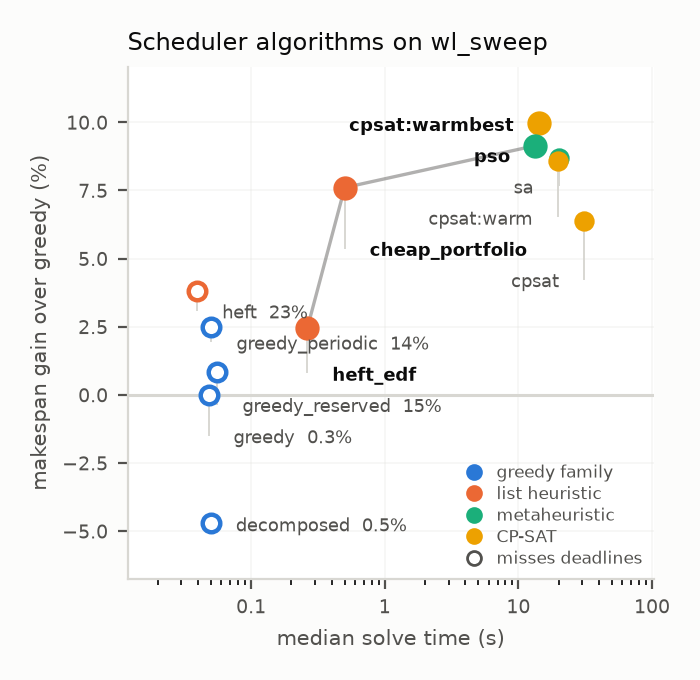
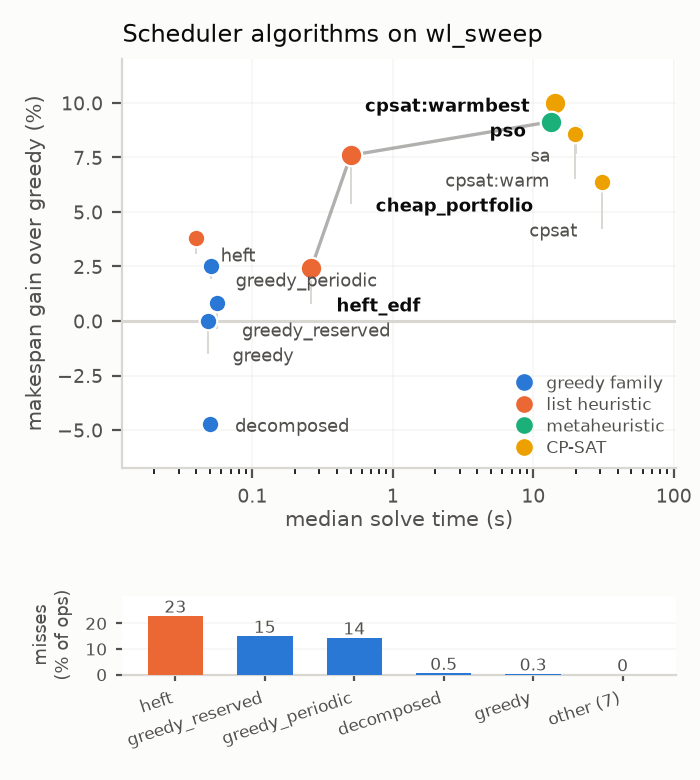
sched_algo_sweep10: split feasibility into its own strip, and compare machine configs
Two figures, each answering one question instead of one figure answering two.

plot_pareto_compact keeps the scatter as pure quality-vs-cost -- no feasibility
folded into the marks -- and puts misses in a short strip beneath: one bar per
solver that misses anything, plus a single 'other (7)' bar at zero for every
solver that misses nothing. Seven of twelve are in that bar, which is the point.
The frontier is still computed over the deadline-clean solvers only, and the
strip is what explains why heft is absent from it despite third-best makespan.

plot_pareto_configs splits the sweep into homogeneous (rvvpair, gempair) and
heterogeneous (hetero, quad) and re-derives everything within each half, each
against its OWN greedy baseline -- comparing a hetero solver against a
homogeneous greedy would fold the machine's advantage into the solver's score.

That split finds something the pooled figure hid: plain cpsat collapses from
9.2% on homogeneous machines to 3.5% on heterogeneous, a 5.7 point drop and by
far the largest movement of any solver. Every other solver moves less than 2.1
points. The metaheuristics go the other way, pso +1.3 and sa +1.2, and
cheap_portfolio is stable at 7.5 -> 7.7 and on the frontier in both halves.

diff --git a/experiments/sched_algo_sweep10/scripts/plot_pareto_compact.py b/experiments/sched_algo_sweep10/scripts/plot_pareto_compact.py
@@ -1,21 +1,21 @@
 #!/usr/bin/env python3
-"""One-panel Pareto, dense enough for a single paper column.
+"""Quality-vs-cost Pareto, with deadline misses as a short strip beneath.
 
-WHY ONE PANEL. The two-panel version spends a whole axis on feasibility, but
-that dimension is nearly binary: seven of twelve solvers miss EXACTLY zero
-deadlines and the other five miss 0.3-22.9%. An axis is the wrong encoding for
-a variable with two clusters -- a mark is right. So a filled marker means
-deadline-clean and a hollow one means it misses windows, with the percentage
-printed beside it. That frees the second panel entirely and the figure drops
-into one column, or two side by side.
+The scatter answers ONE question -- how much makespan does a solver buy, and
+what does it cost in solve time. Folding feasibility into the marks made a
+single frame carry two arguments and read as clutter, so misses now live in
+their own strip: one bar per solver that misses anything, and a single "other"
+bar at zero standing for every solver that misses nothing at all. Seven of
+twelve are in that bar, which is the point -- most solvers here are deadline
+clean and only a handful are not.
 
-Reading it: up is better quality, left is cheaper, and hollow is disqualified
-however good its position looks. heft is the case in point -- third-best
-makespan, and it misses 22.9% of periodic operations.
+The frontier is still computed over the deadline-clean solvers only. heft has
+the third-best makespan and misses 23% of periodic operations; a frontier that
+admits it is recommending it, and the strip below is what explains its absence.
 
   plot_pareto_compact.py [--wide]
 """
-import csv, os, statistics, collections, sys
+import csv, math, os, statistics, collections, sys
 import matplotlib
 matplotlib.use("Agg")
 import matplotlib.pyplot as plt
@@ -26,49 +26,49 @@ HERE = os.path.dirname(os.path.abspath(__file__))
 R = os.path.join(os.path.dirname(HERE), "results")
 WIDE = "--wide" in sys.argv
 
-FAMILY = {
-    "greedy": "#2a78d6", "greedy_periodic": "#2a78d6",
-    "greedy_reserved": "#2a78d6", "decomposed": "#2a78d6",
-    "heft": "#eb6834", "heft_edf": "#eb6834", "cheap_portfolio": "#eb6834",
-    "pso": "#1baf7a", "sa": "#1baf7a",
-    "cpsat": "#eda100", "cpsat:warm": "#eda100", "cpsat:warmbest": "#eda100",
-}
+FAMILY = {"greedy": "#2a78d6", "greedy_periodic": "#2a78d6",
+          "greedy_reserved": "#2a78d6", "decomposed": "#2a78d6",
+          "heft": "#eb6834", "heft_edf": "#eb6834", "cheap_portfolio": "#eb6834",
+          "pso": "#1baf7a", "sa": "#1baf7a",
+          "cpsat": "#eda100", "cpsat:warm": "#eda100", "cpsat:warmbest": "#eda100"}
 FAMNAME = {"#2a78d6": "greedy family", "#eb6834": "list heuristic",
            "#1baf7a": "metaheuristic", "#eda100": "CP-SAT"}
-INK, INK2, GRID = "#0b0b0b", "#52514e", "#d8d7d2"
-FIG = (7.1, 3.4) if WIDE else (3.5, 3.4)
+INK, INK2, GRID, MUTE = "#0b0b0b", "#52514e", "#d8d7d2", "#9a9992"
+FIG = (7.1, 3.9) if WIDE else (3.5, 3.9)
 FT, FA, FK, FL, FG = (13, 11, 10, 10, 9.5) if WIDE else (8.5, 7.5, 7, 6.6, 6.2)
 
-rows = [r for r in csv.DictReader(open(f"{R}/results.csv")) if r["family"] != "tight_loop"]
-base = {}
-for r in rows:
-    if r["solver"] == "greedy":
-        try: base[(r["arm"], r["workload"])] = float(r["objective"])
+
+def series(rows):
+    base = {}
+    for r in rows:
+        if r["solver"] == "greedy":
+            try: base[(r["arm"], r["workload"])] = float(r["objective"])
+            except (TypeError, ValueError): pass
+    imp, wall, mp = (collections.defaultdict(list) for _ in range(3))
+    for r in rows:
+        k, s = (r["arm"], r["workload"]), r["solver"]
+        b = base.get(k)
+        try: obj = float(r["objective"])
+        except (TypeError, ValueError): continue
+        if not b or obj <= 0: continue
+        imp[s].append((b - obj) / b * 100.0)
+        try: wall[s].append(float(r["wall_s"]))
         except (TypeError, ValueError): pass
+        po = int(float(r["periodic_ops"] or 0))
+        if po: mp[s].append(int(float(r["misses"] or 0)) / po * 100.0)
+    return imp, wall, mp
 
-imp, wall, mpct = (collections.defaultdict(list) for _ in range(3))
-for r in rows:
-    k, s = (r["arm"], r["workload"]), r["solver"]
-    b = base.get(k)
-    try: obj = float(r["objective"])
-    except (TypeError, ValueError): continue
-    if not b or obj <= 0: continue
-    imp[s].append((b - obj) / b * 100.0)
-    try: wall[s].append(float(r["wall_s"]))
-    except (TypeError, ValueError): pass
-    po = int(float(r["periodic_ops"] or 0))
-    if po: mpct[s].append(int(float(r["misses"] or 0)) / po * 100.0)
 
+rows = [r for r in csv.DictReader(open(f"{R}/results.csv")) if r["family"] != "tight_loop"]
+imp, wall, mpct = series(rows)
 S = sorted(imp, key=lambda s: -statistics.mean(imp[s]))
 X = {s: statistics.median(wall[s]) for s in S}
 Y = {s: statistics.mean(imp[s]) for s in S}
 M = {s: statistics.mean(mpct[s]) for s in S}
 
-fig, ax = plt.subplots(figsize=FIG)
+fig, (ax, bx) = plt.subplots(2, 1, figsize=FIG, sharex=False,
+                             gridspec_kw=dict(height_ratios=[4.4, 0.85], hspace=0.52))
 
-# Pareto frontier over the DEADLINE-CLEAN solvers only. A frontier that admits
-# infeasible points recommends them, which is exactly the error the two-panel
-# version existed to prevent.
 clean = [s for s in S if M[s] < 0.05]
 pts = sorted(((X[s], Y[s], s) for s in clean), key=lambda p: (p[0], -p[1]))
 best, front = -1e9, []
@@ -84,19 +84,17 @@ label_y, floor = {}, None
 for s in sorted(S, key=lambda s: -Y[s]):
     y = Y[s] if floor is None else min(Y[s], floor)
     label_y[s] = y; floor = y - gap
+mid = 10 ** (sum(math.log10(v) for v in X.values()) / len(X))
 
 for s in S:
-    x, y, col, ok = X[s], Y[s], FAMILY[s], M[s] < 0.05
-    on = s in FRONT
+    x, y, col, on = X[s], Y[s], FAMILY[s], s in FRONT
     ax.scatter([x], [y], s=(60 if WIDE else 40) * (1.5 if on else 1.0),
-               facecolor=col if ok else "white", edgecolor=col,
-               linewidth=1.0 if ok else 1.6, zorder=3)
+               color=col, edgecolor="white", linewidth=0.8, zorder=3)
     ly = label_y[s]
     if abs(ly - y) > gap * 0.35:
         ax.plot([x, x], [y, ly], color=GRID, lw=0.7, zorder=2)
-    txt = s if ok else f"{s}  {M[s]:.1f}%" if M[s] < 1 else f"{s}  {M[s]:.0f}%"
-    right = x > 10 ** ((sum(map(lambda v: __import__('math').log10(v), X.values())) / len(X)))
-    ax.annotate(txt, (x, ly), textcoords="offset points",
+    right = x > mid
+    ax.annotate(s, (x, ly), textcoords="offset points",
                 xytext=(-9 if right else 9, -3), ha="right" if right else "left",
                 fontsize=FL, color=INK if on else INK2,
                 fontweight="bold" if on else "normal", zorder=4)
@@ -110,19 +108,41 @@ ax.grid(alpha=0.22, lw=0.6, color=GRID); ax.set_axisbelow(True)
 for sp in ("top", "right"): ax.spines[sp].set_visible(False)
 for sp in ("left", "bottom"): ax.spines[sp].set_color(GRID)
 ax.tick_params(colors=INK2, labelsize=FK)
-ax.set_xlabel("median solve time (s)", fontsize=FA, color=INK2)
+ax.set_xlabel("median solve time (s)", fontsize=FA, color=INK2, labelpad=1)
 ax.set_ylabel("makespan gain over greedy (%)", fontsize=FA, color=INK2)
 ax.set_title("Scheduler algorithms on wl_sweep", fontsize=FT, color=INK, loc="left")
-
-h = [Line2D([], [], marker="o", ls="", markerfacecolor=c, markeredgecolor=c,
-            markersize=5, label=n) for c, n in FAMNAME.items()]
-h.append(Line2D([], [], marker="o", ls="", markerfacecolor="white",
-                markeredgecolor=INK2, markersize=5, label="misses deadlines"))
+h = [Line2D([], [], marker="o", ls="", color=c, markersize=5, label=n)
+     for c, n in FAMNAME.items()]
 ax.legend(handles=h, loc="lower right", frameon=False, fontsize=FG,
           labelcolor=INK2, handletextpad=0.3, borderpad=0.15, labelspacing=0.25)
-fig.tight_layout()
+
+# ---- the strip: only solvers that miss anything, plus one bar for the rest ----
+bad = sorted((s for s in S if M[s] >= 0.05), key=lambda s: -M[s])
+names = bad + [f"other ({len(S) - len(bad)})"]
+vals = [M[s] for s in bad] + [0.0]
+cols = [FAMILY[s] for s in bad] + [MUTE]
+bx.bar(range(len(vals)), vals, color=cols, width=0.62, zorder=3)
+for i, v in enumerate(vals):
+    bx.text(i, v + max(vals) * 0.06, f"{v:.1f}" if 0 < v < 1 else f"{v:.0f}",
+            ha="center", fontsize=FL - 0.4, color=INK2)
+bx.set_xticks(range(len(names)))
+bx.set_xticklabels(names, fontsize=FL - 0.4, color=INK2, rotation=18, ha="right")
+bx.set_ylabel("misses\n(% of ops)", fontsize=FA - 1, color=INK2)
+bx.set_ylim(0, max(vals) * 1.35)
+bx.set_yticks([0, 10, 20])
+bx.tick_params(colors=INK2, labelsize=FK - 1, length=2)
+bx.grid(axis="y", alpha=0.22, lw=0.6, color=GRID); bx.set_axisbelow(True)
+for sp in ("top", "right", "left"): bx.spines[sp].set_visible(False)
+bx.spines["bottom"].set_color(GRID)
+
+# tight_layout refuses this gridspec (it warns and then clips the y-label), so
+# the margins are set explicitly: room on the left for the axis title and at
+# the bottom for the strip's rotated tick labels.
+fig.subplots_adjust(left=0.175 if not WIDE else 0.095, right=0.965,
+                    top=0.925, bottom=0.135)
 out = os.path.join(os.path.dirname(HERE), "plots",
                    "solver_pareto_compact_wide.png" if WIDE else "solver_pareto_compact.png")
 fig.savefig(out, dpi=200, facecolor="#fcfcfb")
 print("wrote", out, f"({FIG[0]}x{FIG[1]} in)")
-print("  frontier (deadline-clean only):", " → ".join(p[2] for p in front))
+print("  frontier:", " → ".join(p[2] for p in front))
+print("  strip:", ", ".join(f"{s} {M[s]:.1f}%" for s in bad), f"| other={len(S)-len(bad)}")

diff --git a/experiments/sched_algo_sweep10/scripts/plot_pareto_configs.py b/experiments/sched_algo_sweep10/scripts/plot_pareto_configs.py
@@ -1,0 +1,126 @@
+#!/usr/bin/env python3
+"""Does the solver ranking hold when the machine is heterogeneous?
+
+Splits the same sweep two ways and re-derives everything within each half:
+
+  HOMOGENEOUS    rvvpair (2 Saturn RVV harts), gempair (2 Gemmini harts)
+  HETEROGENEOUS  hetero (1 + 1), quad (2 + 2)
+
+Each half gets its OWN greedy baseline, because comparing a hetero solver's
+makespan against a homogeneous greedy would fold the machine's own advantage
+into the solver's score. The question here is only whether the ORDERING of the
+algorithms survives the change of machine.
+
+  plot_pareto_configs.py [--wide]
+"""
+import csv, math, os, statistics, collections, sys
+import matplotlib
+matplotlib.use("Agg")
+import matplotlib.pyplot as plt
+from matplotlib.lines import Line2D
+from matplotlib.ticker import FuncFormatter, NullFormatter
+
+HERE = os.path.dirname(os.path.abspath(__file__))
+R = os.path.join(os.path.dirname(HERE), "results")
+WIDE = "--wide" in sys.argv
+GROUPS = [("homogeneous", {"rvvpair", "gempair"}, "one backend kind"),
+          ("heterogeneous", {"hetero", "quad"}, "Gemmini + Saturn together")]
+FAMILY = {"greedy": "#2a78d6", "greedy_periodic": "#2a78d6",
+          "greedy_reserved": "#2a78d6", "decomposed": "#2a78d6",
+          "heft": "#eb6834", "heft_edf": "#eb6834", "cheap_portfolio": "#eb6834",
+          "pso": "#1baf7a", "sa": "#1baf7a",
+          "cpsat": "#eda100", "cpsat:warm": "#eda100", "cpsat:warmbest": "#eda100"}
+FAMNAME = {"#2a78d6": "greedy family", "#eb6834": "list heuristic",
+           "#1baf7a": "metaheuristic", "#eda100": "CP-SAT"}
+INK, INK2, GRID = "#0b0b0b", "#52514e", "#d8d7d2"
+FIG = (7.4, 3.6) if WIDE else (3.5, 5.4)
+FT, FA, FK, FL, FG = (12, 10.5, 9.5, 9.5, 9) if WIDE else (8.5, 7.5, 7, 6.5, 6.2)
+
+rows = [r for r in csv.DictReader(open(f"{R}/results.csv")) if r["family"] != "tight_loop"]
+
+
+def stats(sub):
+    base = {}
+    for r in sub:
+        if r["solver"] == "greedy":
+            try: base[(r["arm"], r["workload"])] = float(r["objective"])
+            except (TypeError, ValueError): pass
+    imp, wall, mp = (collections.defaultdict(list) for _ in range(3))
+    for r in sub:
+        k, s = (r["arm"], r["workload"]), r["solver"]
+        b = base.get(k)
+        try: obj = float(r["objective"])
+        except (TypeError, ValueError): continue
+        if not b or obj <= 0: continue
+        imp[s].append((b - obj) / b * 100.0)
+        try: wall[s].append(float(r["wall_s"]))
+        except (TypeError, ValueError): pass
+        po = int(float(r["periodic_ops"] or 0))
+        if po: mp[s].append(int(float(r["misses"] or 0)) / po * 100.0)
+    return ({s: statistics.mean(v) for s, v in imp.items()},
+            {s: statistics.median(wall[s]) for s in imp},
+            {s: statistics.mean(mp[s]) if mp[s] else 0.0 for s in imp})
+
+
+G = [(name, note) + stats([r for r in rows if r["pair"] in pairs])
+     for name, pairs, note in GROUPS]
+allY = [v for _, _, Y, _, _ in G for v in Y.values()]
+allX = [v for _, _, _, X, _ in G for v in X.values()]
+ylim = (min(allY) - 1.5, max(allY) + 2.2)
+xlim = (min(allX) * 0.45, max(allX) * 2.6)
+
+fig, axes = plt.subplots(1, 2, figsize=FIG) if WIDE else plt.subplots(2, 1, figsize=FIG)
+for ax, (name, note, Y, X, M) in zip(axes, G):
+    S = sorted(Y, key=lambda s: -Y[s])
+    clean = [s for s in S if M[s] < 0.05]
+    pts = sorted(((X[s], Y[s], s) for s in clean), key=lambda p: (p[0], -p[1]))
+    best, front = -1e9, []
+    for x, y, n in pts:
+        if y > best: front.append((x, y, n)); best = y
+    ax.plot([p[0] for p in front], [p[1] for p in front], "-", color=INK2, lw=1.1,
+            alpha=0.45, zorder=1)
+    FRONT = {p[2] for p in front}
+    gap = (ylim[1] - ylim[0]) * 0.070
+    label_y, floor = {}, None
+    for s in S:
+        y = Y[s] if floor is None else min(Y[s], floor)
+        label_y[s] = y; floor = y - gap
+    mid = 10 ** (sum(math.log10(v) for v in X.values()) / len(X))
+    for s in S:
+        on = s in FRONT
+        ax.scatter([X[s]], [Y[s]], s=(52 if WIDE else 34) * (1.5 if on else 1.0),
+                   color=FAMILY[s], edgecolor="white", linewidth=0.8, zorder=3)
+        ly = label_y[s]
+        if abs(ly - Y[s]) > gap * 0.35:
+            ax.plot([X[s], X[s]], [Y[s], ly], color=GRID, lw=0.7, zorder=2)
+        right = X[s] > mid
+        ax.annotate(s, (X[s], ly), textcoords="offset points",
+                    xytext=(-8 if right else 8, -3), ha="right" if right else "left",
+                    fontsize=FL, color=INK if on else INK2,
+                    fontweight="bold" if on else "normal", zorder=4)
+    ax.set_xscale("log"); ax.set_xlim(*xlim); ax.set_ylim(*ylim)
+    ax.xaxis.set_major_formatter(FuncFormatter(lambda v, _: f"{v:g}"))
+    ax.xaxis.set_minor_formatter(NullFormatter())
+    ax.axhline(0, color=GRID, lw=1.1, zorder=0)
+    ax.grid(alpha=0.22, lw=0.6, color=GRID); ax.set_axisbelow(True)
+    for sp in ("top", "right"): ax.spines[sp].set_visible(False)
+    for sp in ("left", "bottom"): ax.spines[sp].set_color(GRID)
+    ax.tick_params(colors=INK2, labelsize=FK)
+    ax.set_xlabel("median solve time (s)", fontsize=FA, color=INK2, labelpad=1)
+    ax.set_title(f"{name} — {note}", fontsize=FT, color=INK, loc="left")
+axes[0].set_ylabel("makespan gain over that\nconfig's greedy (%)", fontsize=FA, color=INK2)
+if not WIDE:
+    axes[1].set_ylabel("makespan gain over that\nconfig's greedy (%)", fontsize=FA, color=INK2)
+axes[0].legend(handles=[Line2D([], [], marker="o", ls="", color=c, markersize=5, label=n)
+                        for c, n in FAMNAME.items()],
+               loc="lower right", frameon=False, fontsize=FG, labelcolor=INK2,
+               handletextpad=0.3, borderpad=0.15, labelspacing=0.25)
+fig.subplots_adjust(left=0.185 if not WIDE else 0.095, right=0.975,
+                    top=0.93, bottom=0.10, hspace=0.42, wspace=0.16)
+out = os.path.join(os.path.dirname(HERE), "plots",
+                   "solver_pareto_configs_wide.png" if WIDE else "solver_pareto_configs.png")
+fig.savefig(out, dpi=200, facecolor="#fcfcfb")
+print("wrote", out)
+for name, note, Y, X, M in G:
+    top = sorted(Y, key=lambda s: -Y[s])[:4]
+    print(f"  {name:<15} top: " + ", ".join(f"{s} {Y[s]:.1f}%" for s in top))
